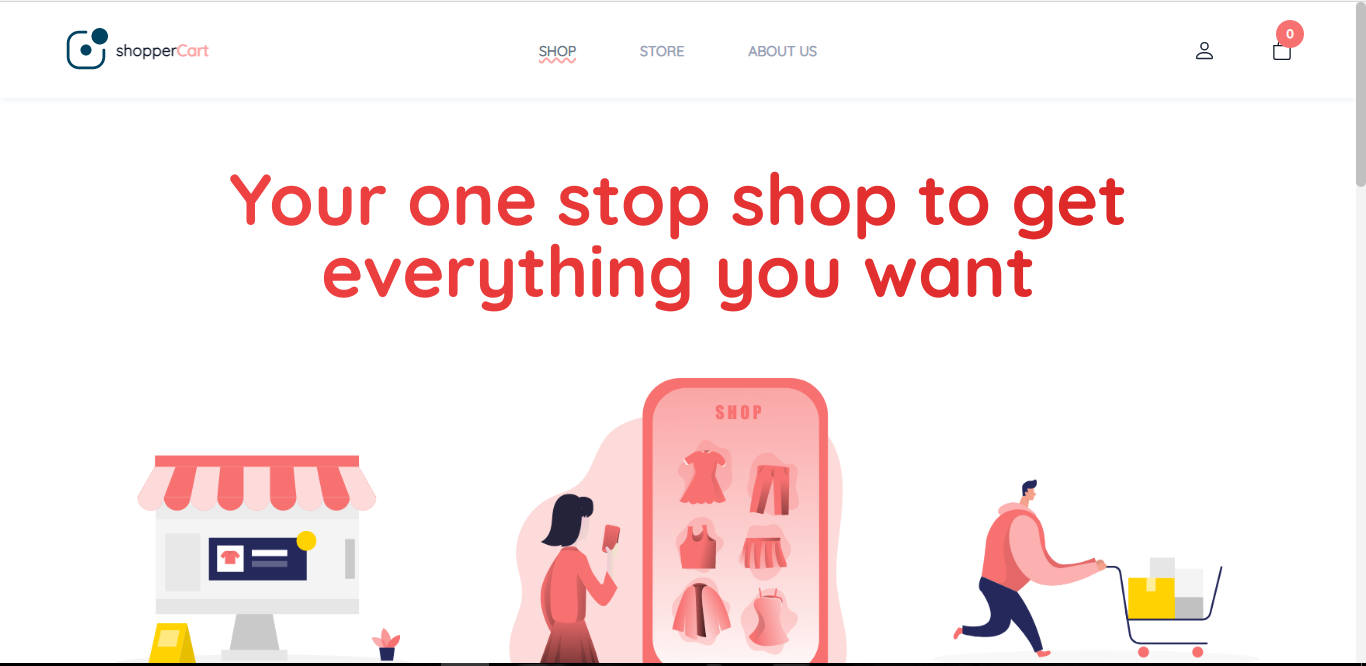
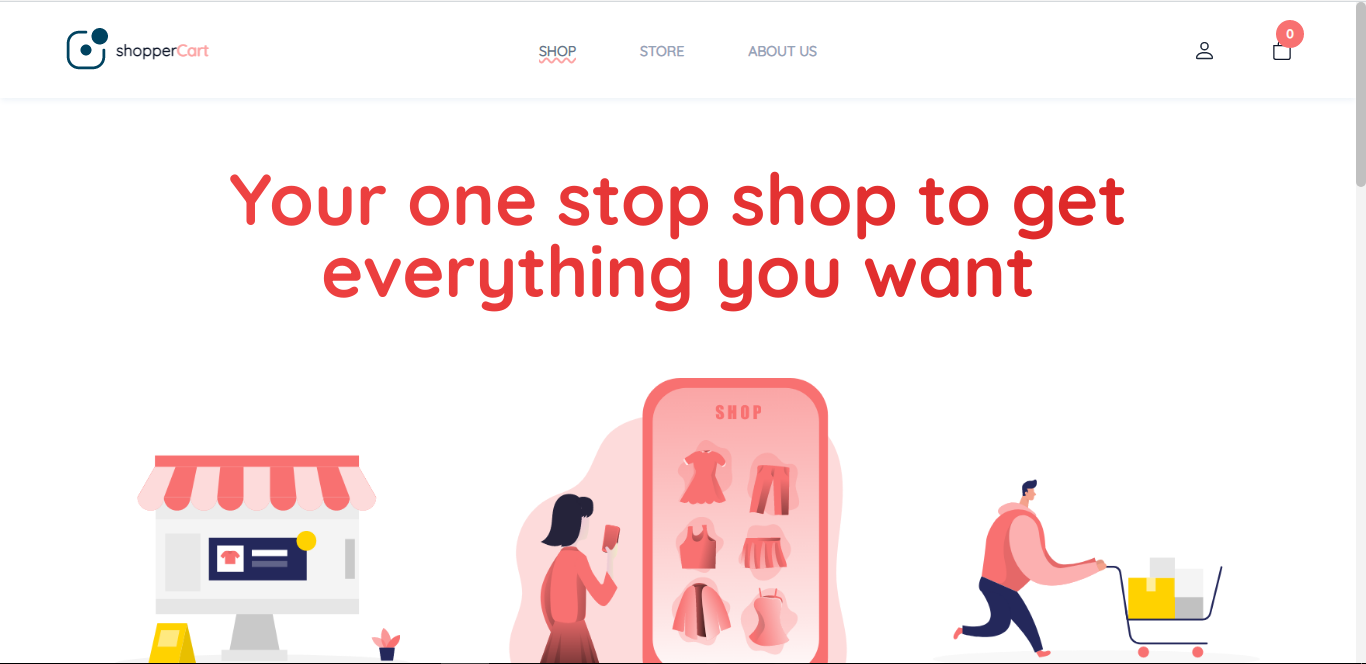
changed shopperCart to shoppercart

diff --git a/src/App.tsx b/src/App.tsx
@@ -4,7 +4,7 @@ import MyImage from "./assets/images/Obaseki_Noruwa.jpg";
 import Haraka from "./assets/images/haraka.png";
 import Ecolabz from "./assets/images/ecolabz.png";
 // import DripAda from "./assets/images/dripada.png";
-import EcommerceApp from "./assets/images/shopperCart.png";
+import EcommerceApp from "./assets/images/shoppercart.png";
 import DraftBlog from "./assets/images/draft_blog.png"
 import DictionaryApp from "./assets/images/dictionary_app.png"
 import TodoApp from "./assets/images/todo_app.png";
